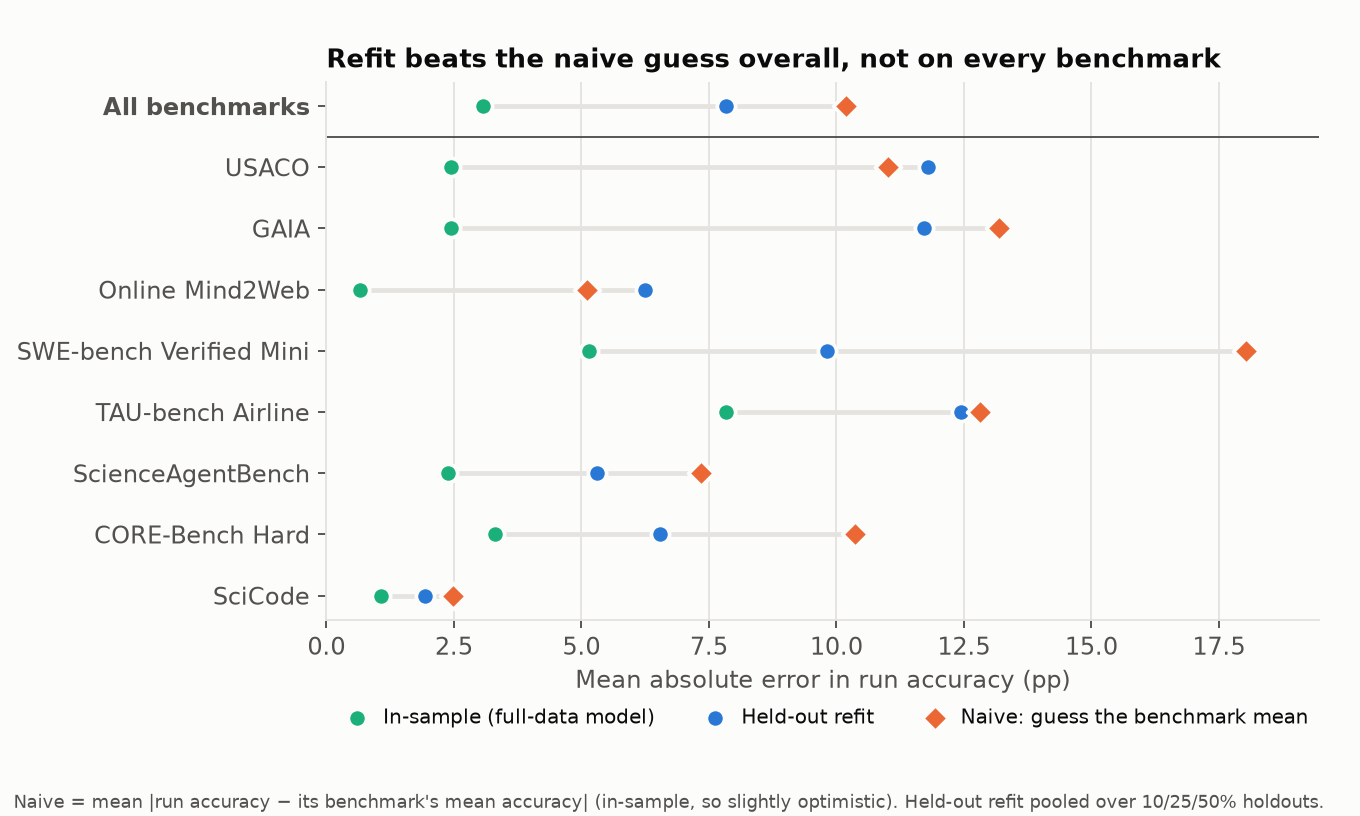
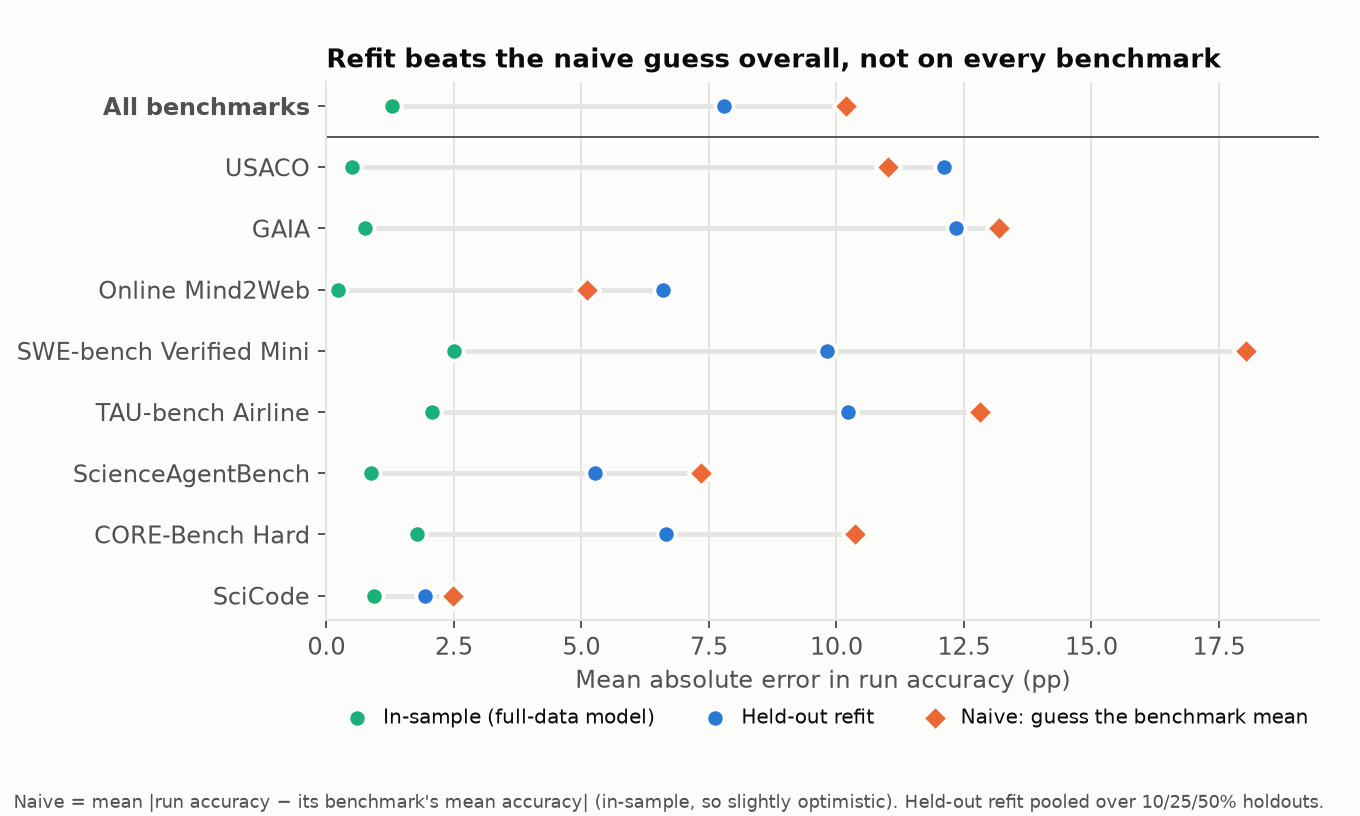
Figures and context tables regenerated under PF-2

diff --git a/results/context_stats.md b/results/context_stats.md
@@ -1,11 +1,11 @@
 | benchmark               |   runs |   mean_acc |   sd_acc |   min |   q25 |   median |   q75 |   max |   mad_from_bench_mean |   holdout_refit_mae |   insample_mae |   refit_over_naive |
 |:------------------------|-------:|-----------:|---------:|------:|------:|---------:|------:|------:|----------------------:|--------------------:|---------------:|-------------------:|
-| SciCode                 |     22 |        4.1 |      3   |   0   |   1.5 |      4.6 |   6.2 |   9.2 |                   2.5 |                 1.9 |            1.1 |                0.8 |
-| CORE-Bench Hard         |     34 |       21.7 |     12.4 |   2.2 |  11.1 |     22.2 |  32.8 |  51.1 |                  10.4 |                 6.5 |            3.3 |                0.6 |
-| ScienceAgentBench       |     19 |       20.5 |      8.9 |   1   |  14.2 |     22.5 |  27.5 |  33.3 |                   7.3 |                 5.3 |            2.4 |                0.7 |
-| TAU-bench Airline       |     14 |       30.7 |     15.1 |  10   |  18.5 |     26   |  44   |  56   |                  12.8 |                12.4 |            7.8 |                1   |
-| SWE-bench Verified Mini |     27 |       29.3 |     20.4 |   0   |   8   |     30   |  48   |  54   |                  18   |                 9.8 |            5.2 |                0.5 |
-| Online Mind2Web         |     22 |       32.4 |      6.4 |  18.3 |  29   |     32   |  37.9 |  42.3 |                   5.1 |                 6.2 |            0.7 |                1.2 |
-| GAIA                    |     23 |       42.8 |     14.5 |  19.4 |  30.3 |     37   |  56.1 |  64.8 |                  13.2 |                11.7 |            2.5 |                0.9 |
-| USACO                   |     13 |       41.2 |     13.6 |  25.4 |  29.3 |     39.1 |  48.2 |  69.7 |                  11   |                11.8 |            2.4 |                1.1 |
-| ALL                     |    174 |       26.9 |     17.1 |   0   |  11.1 |     26.9 |  38   |  69.7 |                  10.2 |                 7.8 |            3.1 |                0.8 |
+| SciCode                 |     22 |        4.1 |      3   |   0   |   1.5 |      4.6 |   6.2 |   9.2 |                   2.5 |                 1.9 |            0.9 |                0.8 |
+| CORE-Bench Hard         |     34 |       21.7 |     12.4 |   2.2 |  11.1 |     22.2 |  32.8 |  51.1 |                  10.4 |                 6.7 |            1.8 |                0.6 |
+| ScienceAgentBench       |     19 |       20.5 |      8.9 |   1   |  14.2 |     22.5 |  27.5 |  33.3 |                   7.3 |                 5.3 |            0.9 |                0.7 |
+| TAU-bench Airline       |     14 |       30.7 |     15.1 |  10   |  18.5 |     26   |  44   |  56   |                  12.8 |                10.2 |            2.1 |                0.8 |
+| SWE-bench Verified Mini |     27 |       29.3 |     20.4 |   0   |   8   |     30   |  48   |  54   |                  18   |                 9.8 |            2.5 |                0.5 |
+| Online Mind2Web         |     22 |       32.4 |      6.4 |  18.3 |  29   |     32   |  37.9 |  42.3 |                   5.1 |                 6.6 |            0.2 |                1.3 |
+| GAIA                    |     23 |       42.8 |     14.5 |  19.4 |  30.3 |     37   |  56.1 |  64.8 |                  13.2 |                12.3 |            0.8 |                0.9 |
+| USACO                   |     13 |       41.2 |     13.6 |  25.4 |  29.3 |     39.1 |  48.2 |  69.7 |                  11   |                12.1 |            0.5 |                1.1 |
+| ALL                     |    174 |       26.9 |     17.1 |   0   |  11.1 |     26.9 |  38   |  69.7 |                  10.2 |                 7.8 |            1.3 |                0.8 |

diff --git a/results/part2_task/main/per_benchmark.md b/results/part2_task/main/per_benchmark.md
@@ -1,10 +1,10 @@
 | benchmark               |   heldout_tasks_per_run |   refit |   run_subsample |   additive |   full_model |   noise_floor |
 |:------------------------|------------------------:|--------:|----------------:|-----------:|-------------:|--------------:|
-| CORE-Bench Hard         |                    11.2 |     8.4 |            10.9 |        8.9 |          7.1 |           8.1 |
-| GAIA                    |                    41.3 |     6.5 |             6.8 |        6.9 |          5.2 |           5.1 |
-| Online Mind2Web         |                    75.4 |     4   |             5.2 |        4.2 |          3.1 |           3.5 |
-| SWE-bench Verified Mini |                    12.4 |     9.5 |            10.4 |        8.7 |          8.2 |           7.6 |
-| SciCode                 |                    16.3 |     3   |             3.9 |        3.2 |          2.5 |           2.9 |
-| ScienceAgentBench       |                    25.6 |     6   |             6.7 |        5.8 |          5   |           5.1 |
-| TAU-bench Airline       |                    12.4 |    13.5 |            11.1 |       11.6 |         12.1 |           9.2 |
-| USACO                   |                    76.3 |     5.3 |             5   |        7.1 |          4.2 |           3.3 |
+| CORE-Bench Hard         |                    11.2 |     8.3 |            10.9 |        8.9 |          6.6 |           7.9 |
+| GAIA                    |                    41.3 |     6   |             6.8 |        6.9 |          4.3 |           5   |
+| Online Mind2Web         |                    75.4 |     4.1 |             5.2 |        4.2 |          3   |           3.5 |
+| SWE-bench Verified Mini |                    12.4 |     8.4 |            10.4 |        8.7 |          6.6 |           7.4 |
+| SciCode                 |                    16.3 |     3   |             3.9 |        3.2 |          2.4 |           2.9 |
+| ScienceAgentBench       |                    25.6 |     5.7 |             6.7 |        5.8 |          4.4 |           5.1 |
+| TAU-bench Airline       |                    12.4 |    11   |            11.1 |       11.6 |          8.3 |           9   |
+| USACO                   |                    76.3 |     4   |             5   |        7.1 |          2.8 |           3.2 |
